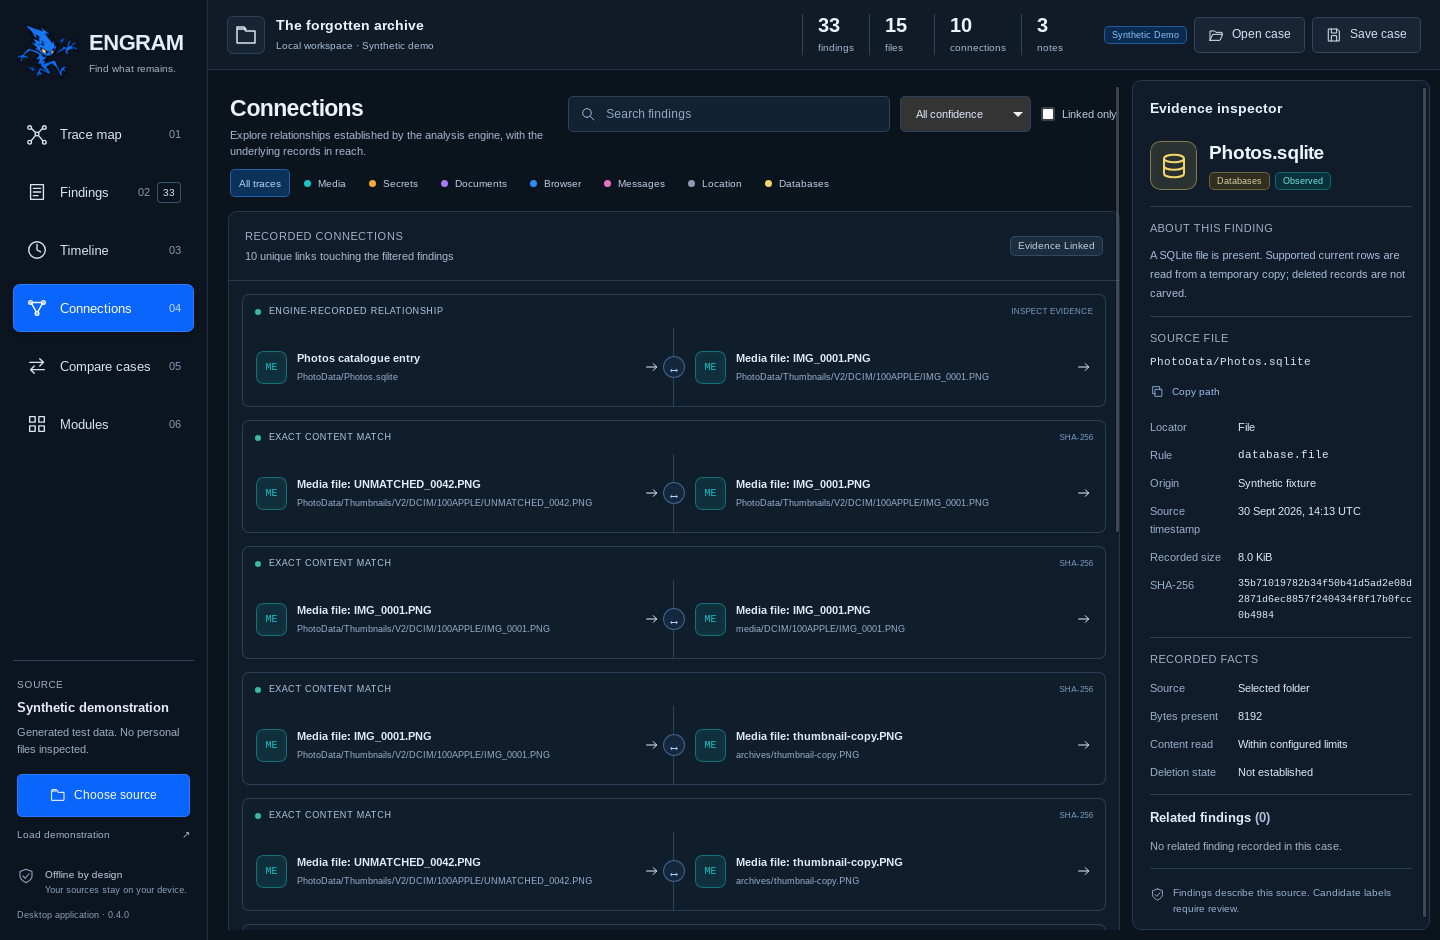
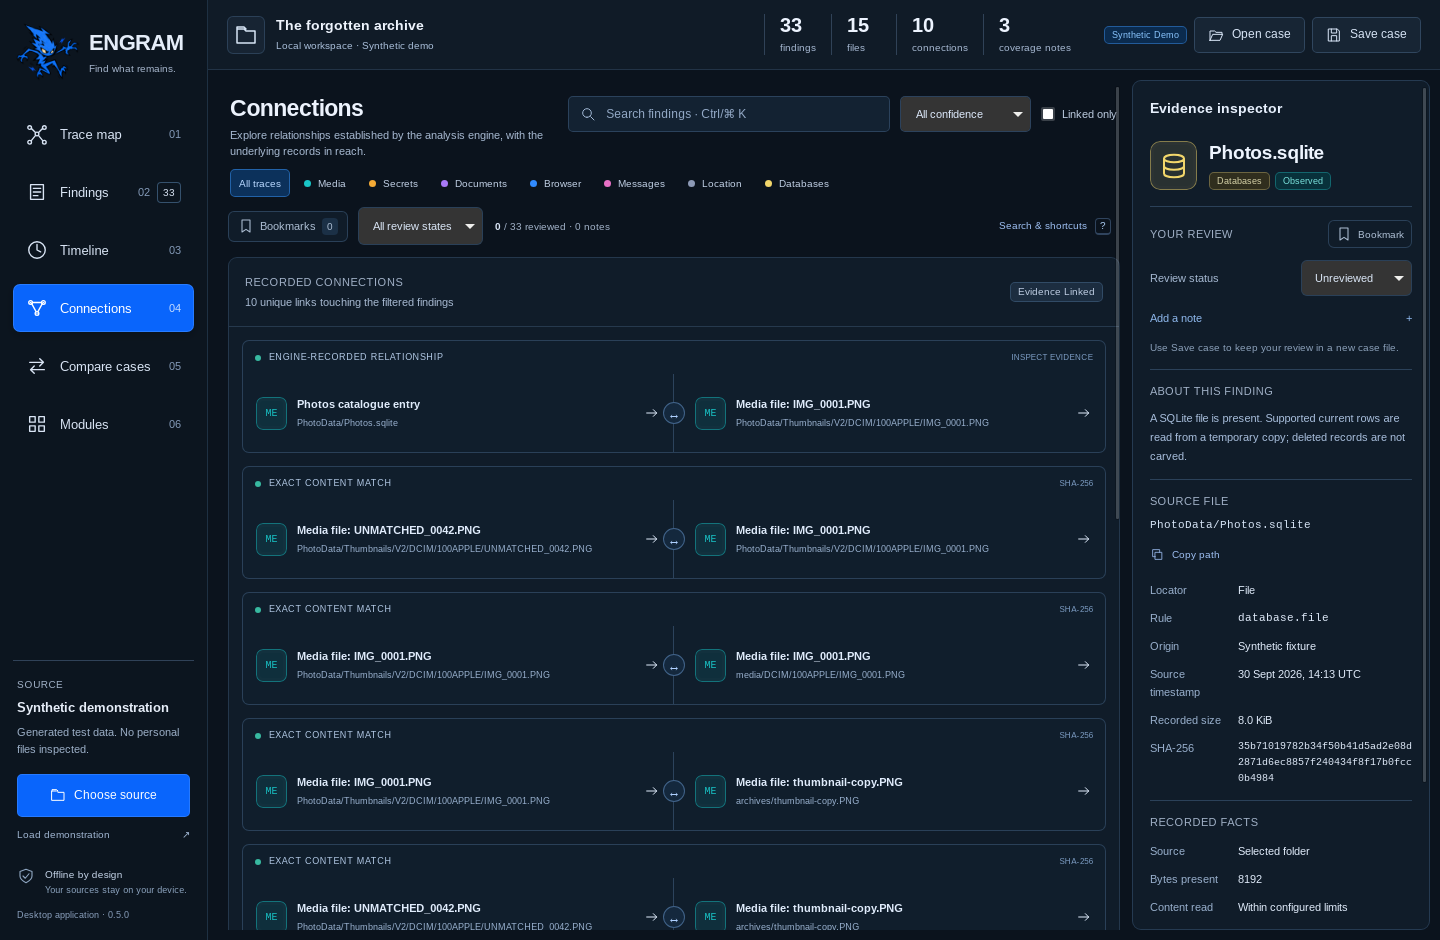
docs: publish verified native ENGRAM 0.5 captures [skip ci]

diff --git a/assets/screenshots/README.md b/assets/screenshots/README.md
@@ -1,32 +1,33 @@
 # Native application captures
 
-These unedited PNGs show the actual ENGRAM 0.4.0 Atlas Focus application on Linux. React and TypeScript run inside the native Tauri/WebKit window; Xvfb supplies the display and WebKit uses software rendering.
+These unedited PNGs show ENGRAM 0.5.0 in its actual Linux Tauri/WebKit window. Xvfb supplies the display and WebKit uses software rendering. The interface includes case review controls and the map viewport toolbar.
 
-The shared Rust engine generated the synthetic case: 33 findings from 15 files, with 10 recorded relationships and 3 notes. No personal directories or phone backups were inspected.
+The shared Rust engine generated a synthetic case with 33 findings from 15 files, 10 recorded relationships and 3 coverage notes. Its review starts empty; no user annotations or personal backups are presented as recovered evidence.
 
-Source: [b7e7e9f](https://github.com/Forem0/ENGRAM/commit/b7e7e9fb4e4fbd3234ed2955b39f58c128566e60).
-Capture and verification: [successful six-view native Tauri/IPC run](https://github.com/Forem0/ENGRAM/actions/runs/40694985190).
+Source: [023d641](https://github.com/Forem0/ENGRAM/commit/023d64122c28e35fd8d84fcea9477d8f4f21710c).
+Capture: [successful native Tauri/IPC job](https://github.com/Forem0/ENGRAM/actions/runs/40766085166/job/123090713655).
+Verification record: [CI run](https://github.com/Forem0/ENGRAM/actions/runs/40766085166).
 
[2 lines of base64/hex data omitted]
 
-Each launch uses `--demo --view VIEW --smoke-test`. The renderer loads its case through the real native Rust command bridge and signals readiness after rendering. CI captures the visible 1440 × 940 window before the guarded smoke process exits. All six images were visually inspected.
+Each launch uses `--demo --view VIEW --smoke-test`. The renderer loads the generated case through the real native command bridge and signals readiness after rendering. CI captures the visible 1440 × 940 window before the guarded smoke process exits. These captures establish native launch and initial IPC, not every interactive workflow; persistence and stale/cancelled saves have separate Rust regression coverage.
 
-- `workspace.png`: Trace map, compact findings dock and source evidence inspector. Only recorded relationships are drawn; the initially selected database has no sampled links.
-- `findings.png`: searchable, paginated evidence index.
-- `timeline.png`: source chronology with explicit timestamp limitations.
-- `connections.png`: recorded relationships and selectable evidence endpoints.
-- `compare.png`: native baseline selection before opening an earlier case; no comparison results are invented.
-- `modules.png`: implemented and experimental readers; more states and coverage notes are available by scrolling.
+- `workspace.png`: Trace map, review filters, viewport controls and inspector. The findings dock continues below the visible fold.
+- `findings.png`: searchable paginated index and finding review controls; more rows and pagination are available by scrolling.
+- `timeline.png`: source chronology with review filters and timestamp context.
+- `connections.png`: actual recorded evidence relationships and their endpoints.
+- `compare.png`: native baseline-selection state, before opening an earlier case. No comparison result is invented.
+- `modules.png`: implemented and experimental readers, with more states and source notes below the visible fold.
 
 SHA-256:
 
 ```text
-235cc20dc89599c8a392720a4aac06b95bd5952526c5fa3cc5bab4a026f57246  workspace.png
-4be508aa31ff1065101f7ebe6707c03f235722f03130e15c634e7bedf200b895  findings.png
-05b160a2708c3b3946084b16ec92f4fdcb1077780b431cd532907ad85356a23b  timeline.png
-e993c3f3b75acee965b7e294300660582f9ff964824d9c7e5282a8a96bf6668f  connections.png
-b9b1b8e09d3aa4c81102efda6974448ecb951c8ea60238e9af98b4fd7c464ae8  compare.png
-9d60316b432622c82e2ffc2ff2e37bcdad473225fca03f44976656147d2dbe1f  modules.png
+47810a6cc99b8ba37c9b981cf807d79c8ff90c9eab6715810c6b9241bf357bea  workspace.png
+e4174d4efa777cf32860bf8dcf6cf4bbbc726d24586f1b18ed57fc9547d468ed  findings.png
+465bc3d9e964ca7a78adbeffec0f567dbf4430e6df5fa3cbf53c0a98a024131d  timeline.png
+8f2fc641618954c2a1a0064b33dec8de5e8ea62b4c0c7467449a715e9f66958e  connections.png
+524d911f1178b5d8bc30dcdc143d94f65a5cbdb7661f7efe51aa24447046e1c1  compare.png
+2694fbfdbb7e79abae4ce3e11637969f4876f9b30a95393024c9a8463715f322  modules.png
 ```
 
-Original design illustrations remain separately labelled under [assets/design/atlas-focus](../design/atlas-focus/README.md). Historical native captures remain in the [0.3 release source](https://github.com/Forem0/ENGRAM/tree/v0.3.0/assets/screenshots) and [0.2 release source](https://github.com/Forem0/ENGRAM/tree/v0.2.0-preview.2/assets/screenshots).
+Original design illustrations remain separately labelled under [assets/design/atlas-focus](../design/atlas-focus/README.md). Historical native galleries retain their own evidence in the [0.4 release source](https://github.com/Forem0/ENGRAM/tree/v0.4.0/assets/screenshots), [0.3 release source](https://github.com/Forem0/ENGRAM/tree/v0.3.0/assets/screenshots) and [0.2 release source](https://github.com/Forem0/ENGRAM/tree/v0.2.0-preview.2/assets/screenshots).
